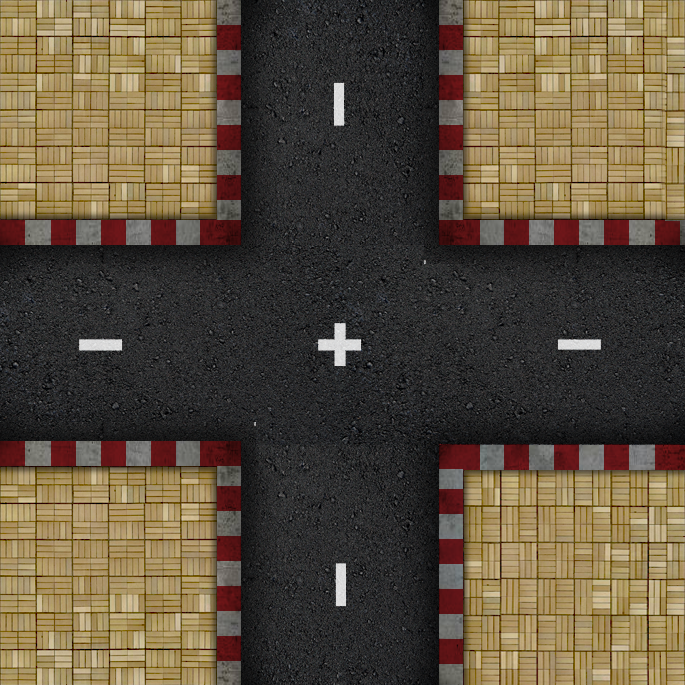
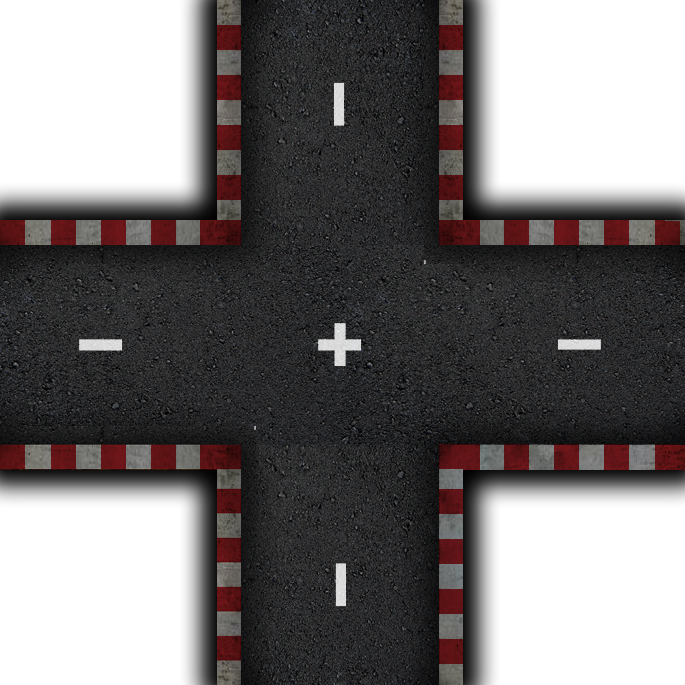
new tiles added

diff --git a/css/main.css b/css/main.css
@@ -384,6 +384,7 @@ PLAY SCREEN STYLES
 .tiles {
 	display: inline-block;
 	line-height: 0;
+	background-image: url(../gfx/tiles/tile.png);
 }
 
 .tiles .row {
@@ -428,9 +429,9 @@ PLAY SCREEN STYLES
 	/*box-shadow: inset 0px 0px 65px -8px indianred;*/
 }
 
-.tile {
-	background-image: url(../gfx/tiles/tile.png);
-}
+/*.tile {*/
+	/*background-image: url(../gfx/tiles/tile.png);*/
+/*}*/
 
 .tile.turn {
 	background-image: url(../gfx/tiles/turn.png);
@@ -453,14 +454,6 @@ PLAY SCREEN STYLES
 	box-shadow: -10px -30px 54px -18px #000;
 	position: relative;
 	z-index: 1;
-	background-color: #5a2e75;
-	background-image: -ms-radial-gradient(center, circle closest-corner, #835B9C 0%, #5A2E75 100%);
-	background-image: -moz-radial-gradient(center, circle closest-corner, #835B9C 0%, #5A2E75 100%);
-	background-image: -o-radial-gradient(center, circle closest-corner, #835B9C 0%, #5A2E75 100%);
-	background-image: -webkit-gradient(radial, center center, 0, center center, 505, color-stop(0, #835B9C), color-stop(1, #5A2E75));
-	background-image: -webkit-radial-gradient(center, circle closest-corner, #835B9C 0%, #5A2E75 100%);
-	background-image: radial-gradient(circle closest-corner at center, #835B9C 0%, #5A2E75 100%);
-
 }
 
 #back-button {
@@ -523,25 +516,55 @@ PLAY SCREEN STYLES
 
 #menu-panel .star-container {
 	position: absolute;
-	top: -50px;
-	left: 30px;
+	top: -90px;
+	left: 50%;
+	z-index: 1;
+	margin-left: -105px;
 }
 
 #menu-panel .star.first {
 	top: 0;
 	left: 0;
-	-webkit-transform: scale(1.3);
 }
 
 #menu-panel .star.second {
 	top: 0;
 	left: 80px;
-	-webkit-transform: scale(1.2);
+	-webkit-transform: scale(0.8);
 }
 
 #menu-panel .star.third {
 	top: 0px;
 	left: 160px;
+	-webkit-transform: scale(0.6);
+}
+
+#menu-panel #swap-tile {
+	-webkit-transform: rotate(2deg);
+	position: absolute;
+	left: 70px;
+	bottom: 10px;
+	overflow: hidden;
+	border: 5px solid #000;
+	width: 120px;
+	height: 120px;
+	-moz-transition: all 0.3s;
+	-webkit-transition: all 0.3s;
+	transition: all 0.3s;
+	background-color: #fff;
+
+}
+
+#menu-panel #swap-tile:hover {
+	-webkit-transform: scale(1.1);
+}
+
+#menu-panel #swap-tile .tile {
+
+	border: none;
+	width: 120px;
+	height: 120px;
+	box-shadow: inset 0px 0px 20px 0px #000;
 }
 
 

diff --git a/index.html b/index.html
@@ -145,7 +145,7 @@
                 cars: <span class='cars-deployed'>3/20</span>
             </div>
             <div id='swap-tile'></div>
-            <button id='back-button'>Back</button>
+            <button id='back-button'>back</button>
 
         </div>
     </section>
